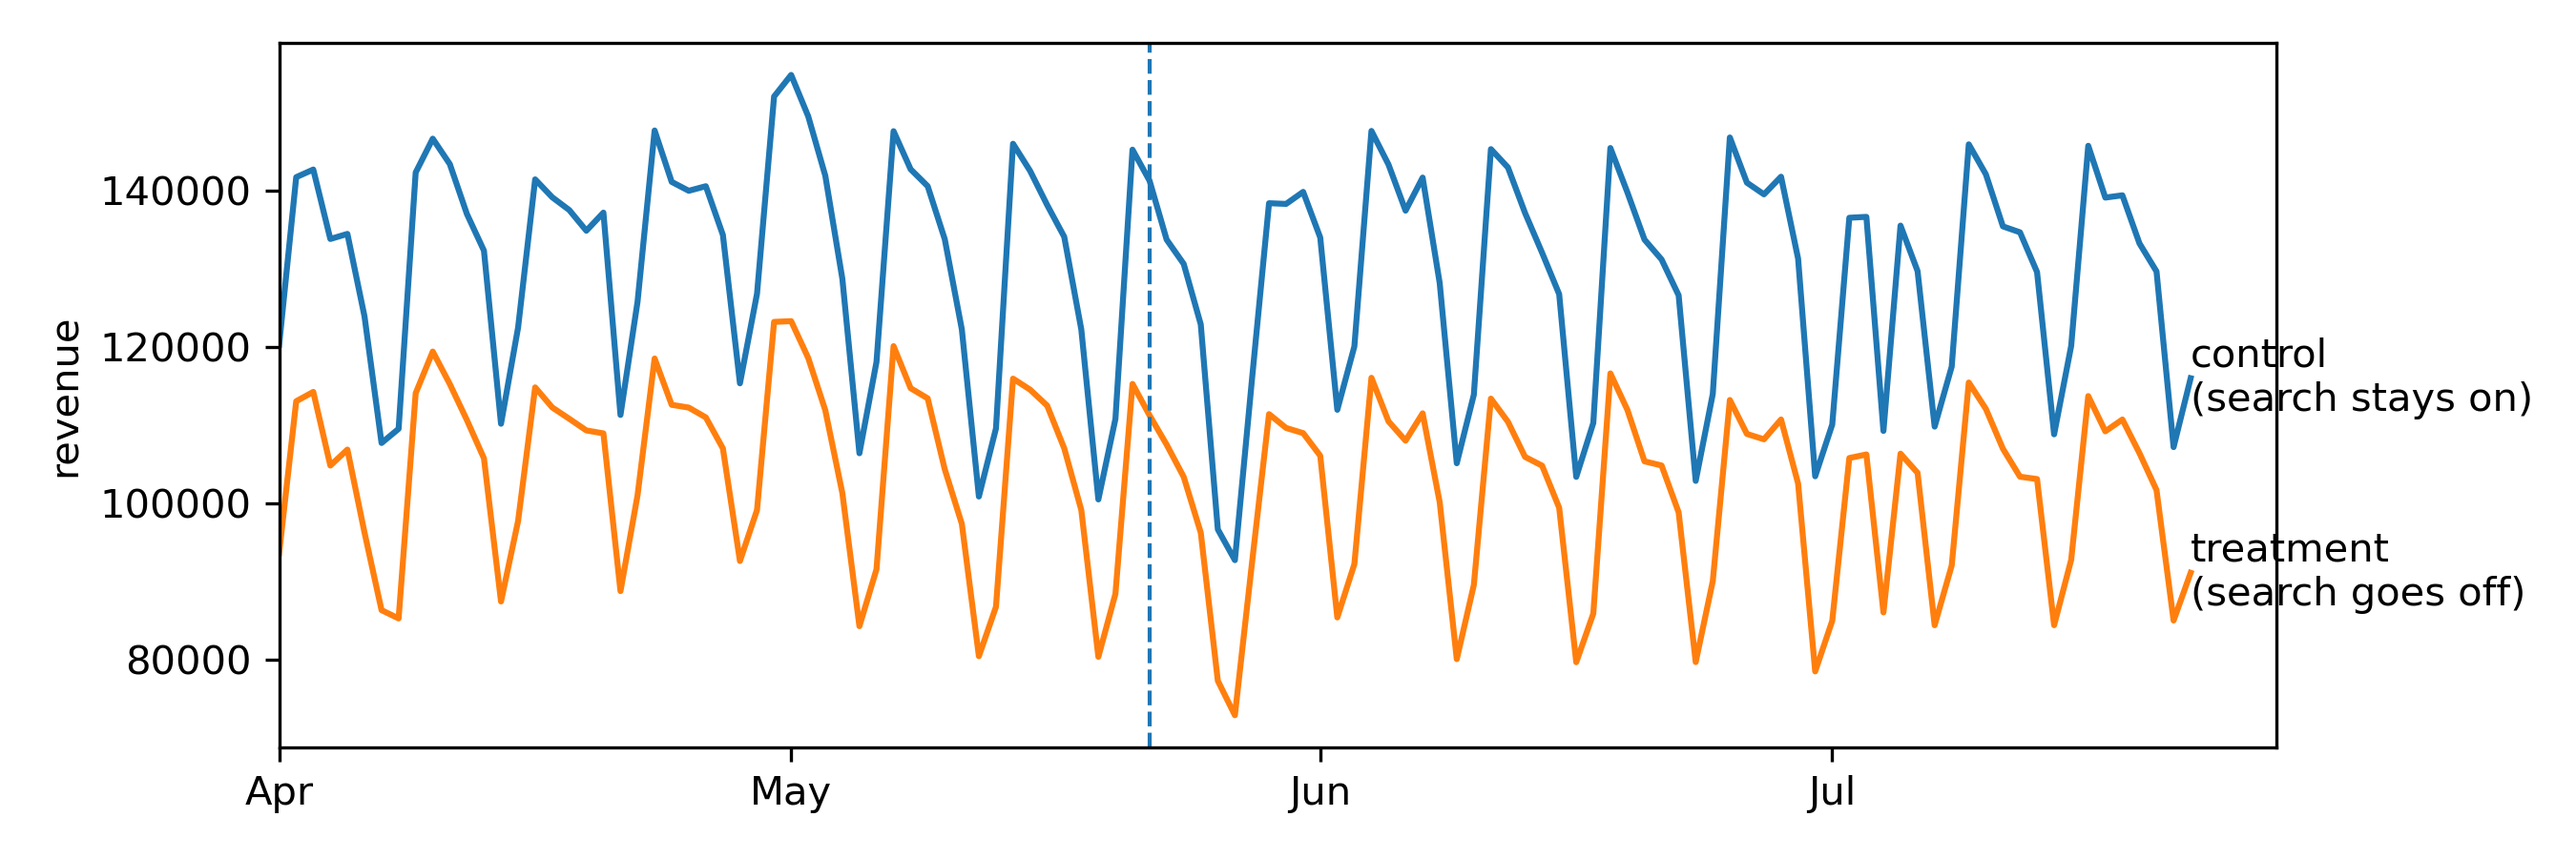
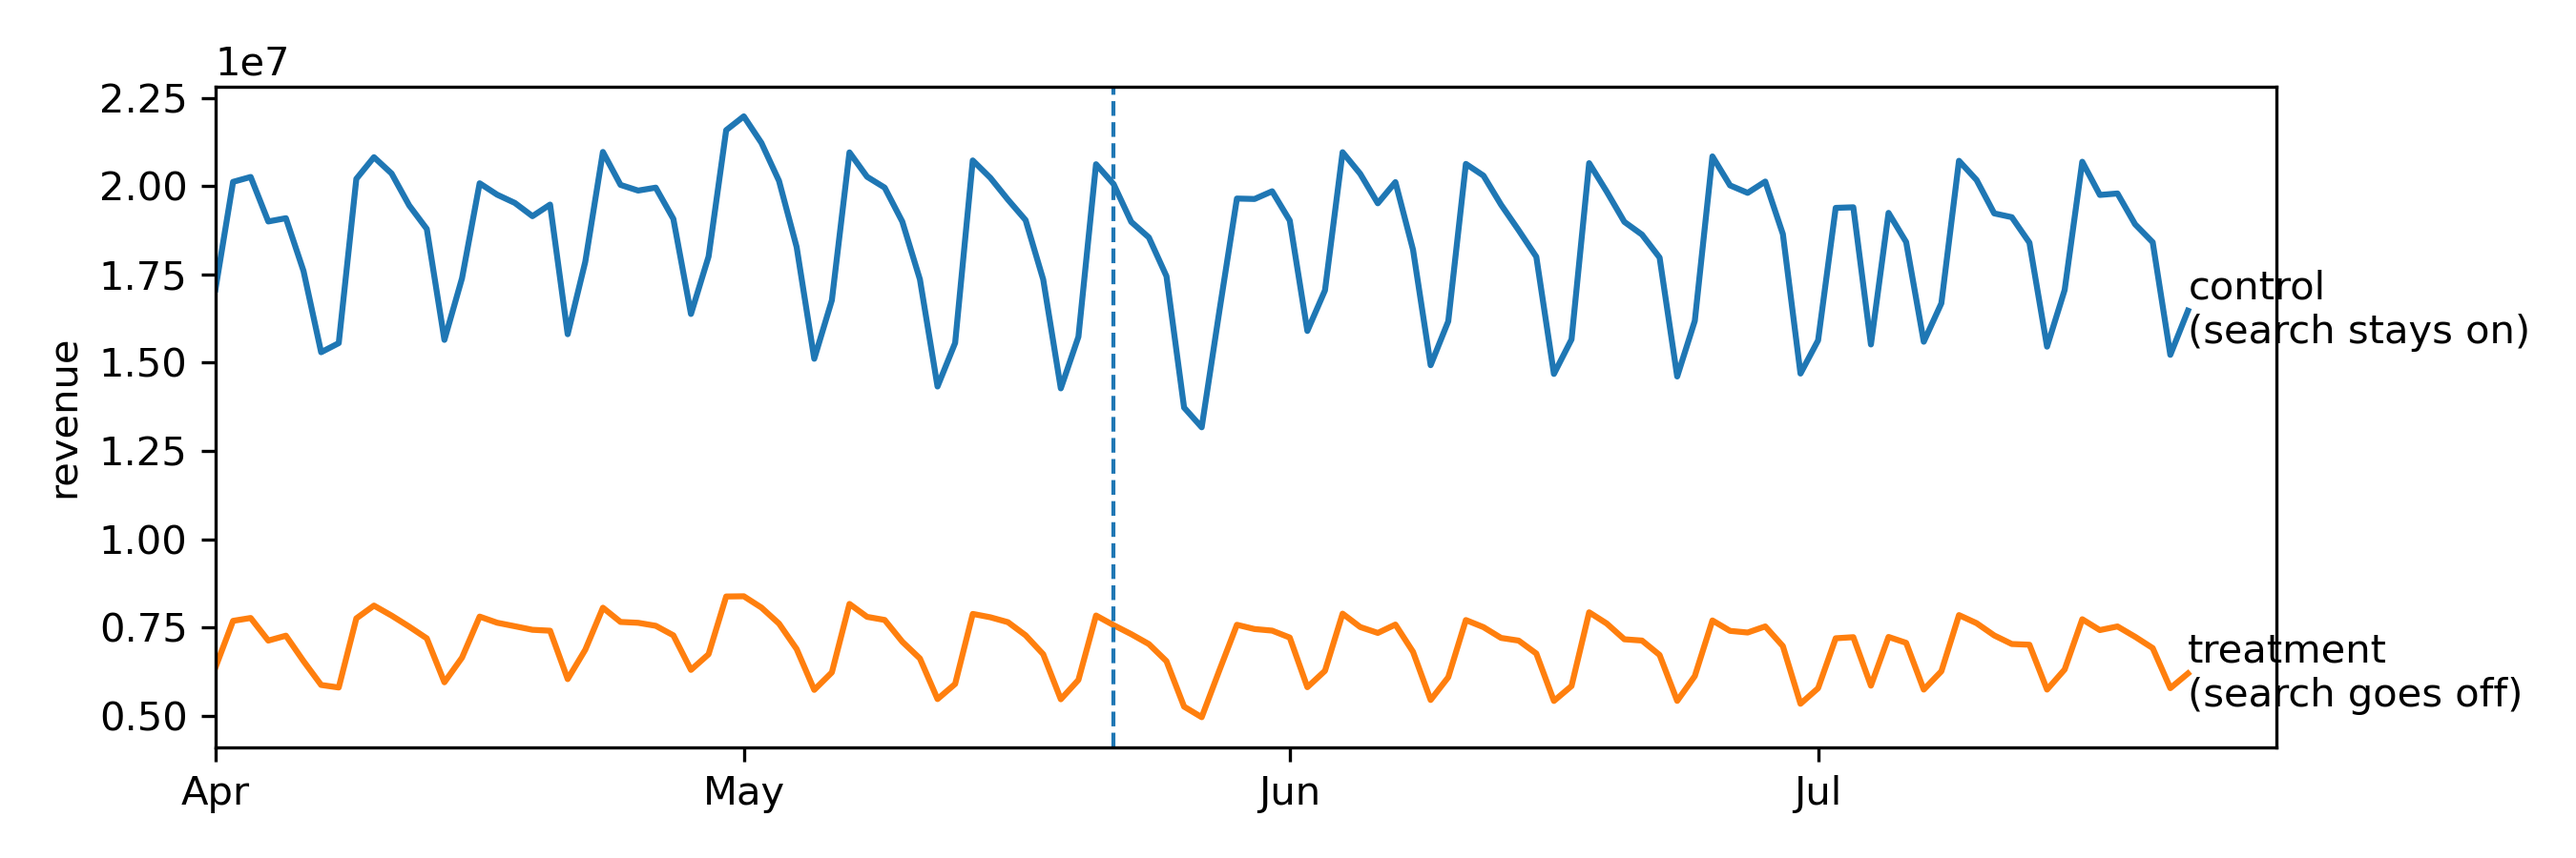
Add preprocessing script and reproduce Figures 5.2 and 5.3

diff --git a/code/preprocess.py b/code/preprocess.py
@@ -57,7 +57,7 @@ print(f"Date range: {date_min} to {date_max}")
 # Step  4
 daily_rev = (
 	df.groupby(["date", "search_stays_on"], as_index = False)["revenue"]
-	.mean()
+	.sum()
 	.sort_values("date")
 )
 
